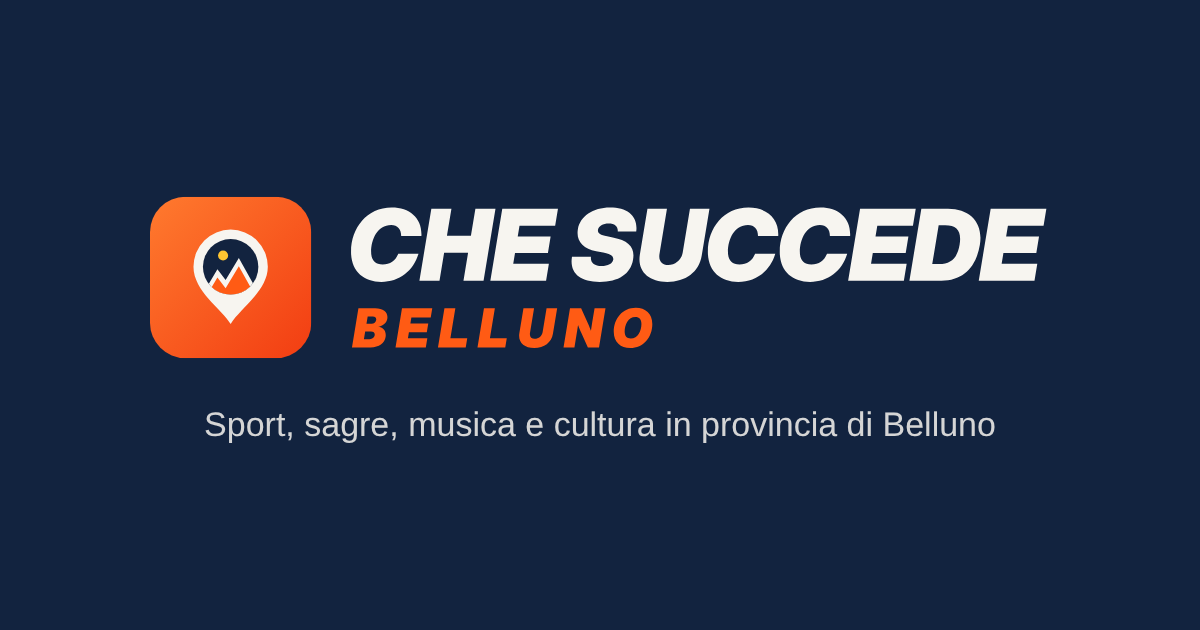
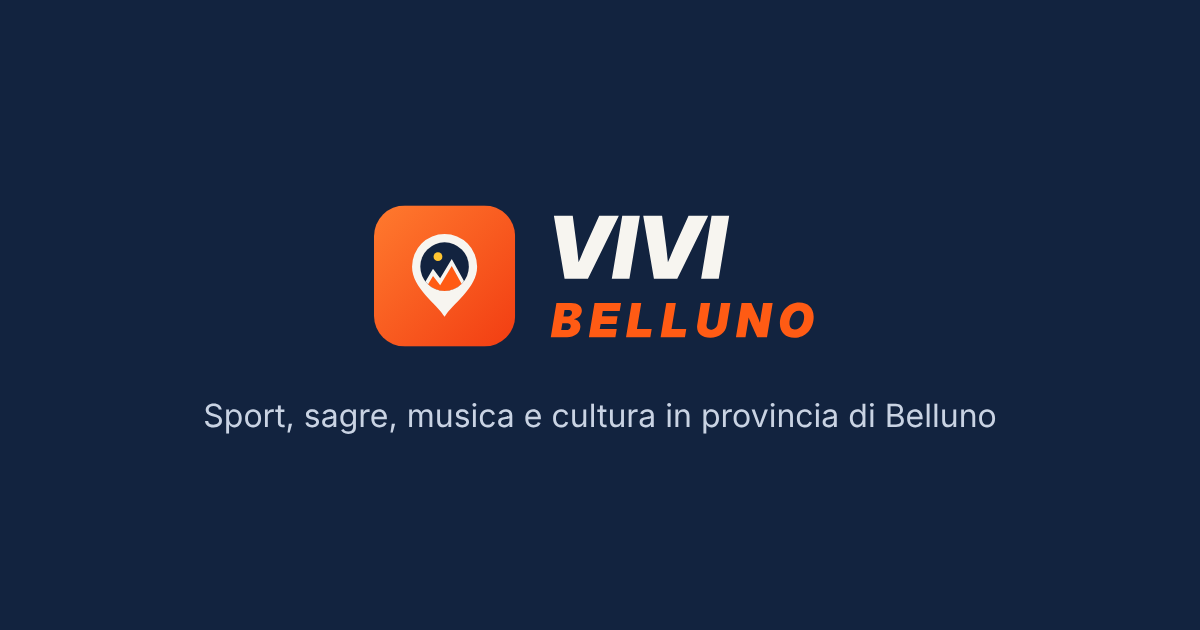
Nuovo nome: Vivi Belluno (pagine, informativa, termini, anteprima)

Changed region(s): [[0.1233, 0.3016, 0.8942, 0.573], [0.1542, 0.6333, 0.8325, 0.6937]]

diff --git a/e/index.html b/e/index.html
@@ -1,6 +1,6 @@
 <!doctype html><html lang="it"><head><meta charset="utf-8"><meta name="viewport" content="width=device-width,initial-scale=1">
-<title>Evento · Che Succede Belluno</title>
-<meta property="og:title" content="Un evento su Che Succede Belluno">
+<title>Evento · Vivi Belluno</title>
+<meta property="og:title" content="Un evento su Vivi Belluno">
 <meta property="og:description" content="Sport, sagre, musica e cultura in provincia di Belluno.">
 <link rel="icon" href="/favicon.png"><meta name="theme-color" content="#12233F"><meta property="og:image" content="https://bortovalabs.github.io/og.png"><link rel="stylesheet" href="/style.css">
 <style>
@@ -13,7 +13,7 @@
 .badge{display:inline-block;background:#fbe3e3;color:#8a1c1c;border-radius:20px;padding:2px 10px;font-weight:700;font-size:13px;margin-bottom:8px}
 </style></head><body><div class="wrap">
 <div class="top">
-  <a class="logo" href="/"><header><img src="/icon.svg" alt=""><b>CHE SUCCEDE <span>BELLUNO</span></b></header></a>
+  <a class="logo" href="/"><header><img src="/icon.svg" alt=""><b>VIVI <span>BELLUNO</span></b></header></a>
   <nav><a href="/">Eventi</a><a href="/gruppi/">Associazioni</a></nav>
 </div>
 <div class="card">
@@ -26,7 +26,7 @@
 <div class="btnrow" id="actions"></div>
 <a class="btn primary" id="open" href="https://play.google.com/store/apps/details?id=it.chesuccedebelluno.app">Apri nell'app</a>
 <a class="btn ghost" href="https://play.google.com/store/apps/details?id=it.chesuccedebelluno.app">Non hai l'app? Scaricala per Android</a>
-<p class="small" style="margin-top:16px">Su Che Succede Belluno trovi gli eventi di sport, sagre, musica e cultura della provincia. <a href="/">Vedi tutti gli eventi</a></p>
+<p class="small" style="margin-top:16px">Su Vivi Belluno trovi gli eventi di sport, sagre, musica e cultura della provincia. <a href="/">Vedi tutti gli eventi</a></p>
 </div></div>
 <script src="/js/csb.js"></script>
 <script>
@@ -49,7 +49,7 @@
   var box = document.getElementById('ev');
   var actions = document.getElementById('actions');
   function show(nodes) { box.innerHTML = ''; nodes.forEach(function (n) { if (n) box.appendChild(n); }); }
-  function notFound(msg) { show([el('h1', '', 'Evento non trovato'), el('p', 'meta', msg)]); document.title = 'Che Succede Belluno'; }
+  function notFound(msg) { show([el('h1', '', 'Evento non trovato'), el('p', 'meta', msg)]); document.title = 'Vivi Belluno'; }
   if (!id || !/^[A-Za-z0-9_-]{1,64}$/.test(id)) { notFound('Il link non è completo. Guarda gli eventi in provincia dalla pagina principale.'); return; }
 
   function button(text, href, cls, download) {
@@ -62,7 +62,7 @@
   function ics(e) {
     function stamp(d) { return d.toISOString().replace(/[-:]/g, '').replace(/\.\d{3}/, ''); }
     function esc(s) { return (s || '').replace(/\\/g, '\\\\').replace(/[,;]/g, '\\$&').replace(/\r?\n/g, '\\n'); }
-    var lines = ['BEGIN:VCALENDAR', 'VERSION:2.0', 'PRODID:-//Che Succede Belluno//IT', 'BEGIN:VEVENT',
+    var lines = ['BEGIN:VCALENDAR', 'VERSION:2.0', 'PRODID:-//Vivi Belluno//IT', 'BEGIN:VEVENT',
       'UID:' + id + '@chesuccedebelluno', 'DTSTAMP:' + stamp(new Date()),
       'DTSTART:' + stamp(e.start), 'DTEND:' + stamp(CSB.endTime(e)),
       'SUMMARY:' + esc(e.title), 'LOCATION:' + esc([e.place, e.town].filter(Boolean).join(', ')),
@@ -75,7 +75,7 @@
     if (!e) { notFound('Forse è stato eliminato dall\'organizzatore. Guarda gli altri eventi dalla pagina principale.'); return; }
     if (e.hidden) { notFound('Questo evento non è pubblico.'); return; }
     var title = e.title || 'Evento';
-    document.title = title + ' · Che Succede Belluno';
+    document.title = title + ' · Vivi Belluno';
     var start = e.start instanceof Date ? e.start : null;
     var pic;
     var thumb = e.thumb || e.image;

diff --git a/termini.html b/termini.html
@@ -1,13 +1,13 @@
 <!doctype html><html lang="it"><head><meta charset="utf-8"><meta name="viewport" content="width=device-width,initial-scale=1">
-<title>Termini d'uso · Che Succede Belluno</title>
+<title>Termini d'uso · Vivi Belluno</title>
 <link rel="icon" href="/favicon.png"><meta name="theme-color" content="#12233F"><meta property="og:image" content="https://bortovalabs.github.io/og.png"><link rel="stylesheet" href="/style.css"></head><body><div class="wrap">
-<header><img src="/icon.svg" alt=""><b>CHE SUCCEDE <span>BELLUNO</span></b></header>
+<header><img src="/icon.svg" alt=""><b>VIVI <span>BELLUNO</span></b></header>
 <div class="card">
 <h1>Termini d'uso</h1>
 <p class="small">Versione del 10 novembre 2026</p>
 
 <h2>1. Il servizio</h2>
-<p>Che Succede Belluno è un'app gratuita, senza pubblicità, che raccoglie gli eventi pubblicati da gruppi e associazioni della provincia di Belluno: sport, sagre e feste, musica e serate, cultura. La gestisce <b>Nicola Bortoluzzi</b> ("Bortova Labs").</p>
+<p>Vivi Belluno è un'app gratuita, senza pubblicità, che raccoglie gli eventi pubblicati da gruppi e associazioni della provincia di Belluno: sport, sagre e feste, musica e serate, cultura. La gestisce <b>Nicola Bortoluzzi</b> ("Bortova Labs").</p>
 <p><b>Punto di contatto</b> per utenti e autorità (anche ai sensi del Digital Services Act): <a href="mailto:bortovalabs@gmail.com">bortovalabs@gmail.com</a>, in italiano o in inglese.</p>
 <p>Usando l'app accetti questi termini. Come trattiamo i dati personali è spiegato nell'<a href="/privacy.html">informativa privacy</a>.</p>
 
@@ -56,7 +56,7 @@
 <p>Quando rimuoviamo o limitiamo un contenuto, <b>spieghiamo il motivo</b> via email a chi l'ha pubblicato: quale regola o norma è stata violata e cosa abbiamo fatto. Se non sei d'accordo puoi rispondere a quella email: ricontrolliamo la decisione. Resta sempre possibile rivolgersi alle autorità o al giudice.</p>
 
 <h2>8. Responsabilità</h2>
-<p>Che Succede Belluno non organizza gli eventi: mostra le informazioni pubblicate da gruppi e associazioni. Facciamo il possibile perché siano corrette, ma prima di partire controlla i dettagli con l'organizzatore, soprattutto per escursioni in montagna, condizioni meteo e iscrizioni. Il servizio è offerto gratuitamente e senza garanzie di disponibilità continua.</p>
+<p>Vivi Belluno non organizza gli eventi: mostra le informazioni pubblicate da gruppi e associazioni. Facciamo il possibile perché siano corrette, ma prima di partire controlla i dettagli con l'organizzatore, soprattutto per escursioni in montagna, condizioni meteo e iscrizioni. Il servizio è offerto gratuitamente e senza garanzie di disponibilità continua.</p>
 
 <h2>9. I tuoi contenuti</h2>
 <p>I contenuti che pubblichi restano tuoi o del tuo gruppo. Pubblicandoli ci concedi il permesso gratuito di mostrarli nell'app, sul sito e nelle anteprime dei link condivisi, finché restano pubblicati.</p>

diff --git a/g/index.html b/g/index.html
@@ -1,11 +1,11 @@
 <!doctype html><html lang="it"><head><meta charset="utf-8"><meta name="viewport" content="width=device-width,initial-scale=1">
-<title>Gruppo · Che Succede Belluno</title>
-<meta property="og:title" content="Un gruppo su Che Succede Belluno">
+<title>Gruppo · Vivi Belluno</title>
+<meta property="og:title" content="Un gruppo su Vivi Belluno">
 <meta property="og:description" content="Gli eventi di associazioni e gruppi della provincia di Belluno.">
 <link rel="icon" href="/favicon.png"><meta name="theme-color" content="#12233F"><meta property="og:image" content="https://bortovalabs.github.io/og.png"><link rel="stylesheet" href="/style.css">
 <style>.gdesc{white-space:pre-line;margin:14px 0 0}</style></head><body><div class="wrap mid">
 <div class="top">
-  <a class="logo" href="/"><header><img src="/icon.svg" alt=""><b>CHE SUCCEDE <span>BELLUNO</span></b></header></a>
+  <a class="logo" href="/"><header><img src="/icon.svg" alt=""><b>VIVI <span>BELLUNO</span></b></header></a>
   <nav><a href="/">Eventi</a><a href="/gruppi/">Associazioni</a><a class="app" href="https://play.google.com/store/apps/details?id=it.chesuccedebelluno.app">App Android</a></nav>
 </div>
 <div class="card" id="g"><p class="loading">Carico il gruppo…</p></div>
@@ -29,7 +29,7 @@
 
   CSB.getDoc('groups/' + encodeURIComponent(id)).then(function (g) {
     if (!g || g.hidden || !g.name) { notFound('Forse non è più pubblico.'); return; }
-    document.title = g.name + ' · Che Succede Belluno';
+    document.title = g.name + ' · Vivi Belluno';
     box.innerHTML = '';
     var head = el('div', 'ghead');
     head.appendChild(CSB.avatar(g, 76));

diff --git a/gruppi/index.html b/gruppi/index.html
@@ -1,11 +1,11 @@
 <!doctype html><html lang="it"><head><meta charset="utf-8"><meta name="viewport" content="width=device-width,initial-scale=1">
-<title>Associazioni e gruppi · Che Succede Belluno</title>
-<meta name="description" content="Associazioni, Pro Loco, società sportive e gruppi della provincia di Belluno che pubblicano i loro eventi su Che Succede Belluno.">
-<meta property="og:title" content="Associazioni e gruppi · Che Succede Belluno">
+<title>Associazioni e gruppi · Vivi Belluno</title>
+<meta name="description" content="Associazioni, Pro Loco, società sportive e gruppi della provincia di Belluno che pubblicano i loro eventi su Vivi Belluno.">
+<meta property="og:title" content="Associazioni e gruppi · Vivi Belluno">
 <meta property="og:description" content="Associazioni, Pro Loco e gruppi della provincia di Belluno.">
 <link rel="icon" href="/favicon.png"><meta name="theme-color" content="#12233F"><meta property="og:image" content="https://bortovalabs.github.io/og.png"><link rel="stylesheet" href="/style.css"></head><body><div class="wrap wide">
 <div class="top">
-  <a class="logo" href="/"><header><img src="/icon.svg" alt=""><b>CHE SUCCEDE <span>BELLUNO</span></b></header></a>
+  <a class="logo" href="/"><header><img src="/icon.svg" alt=""><b>VIVI <span>BELLUNO</span></b></header></a>
   <nav><a href="/">Eventi</a><a class="on" href="/gruppi/">Associazioni</a><a class="app" href="https://play.google.com/store/apps/details?id=it.chesuccedebelluno.app">App Android</a></nav>
 </div>
 

diff --git a/index.html b/index.html
@@ -1,11 +1,11 @@
 <!doctype html><html lang="it"><head><meta charset="utf-8"><meta name="viewport" content="width=device-width,initial-scale=1">
-<title>Che Succede Belluno · eventi in provincia di Belluno</title>
+<title>Vivi Belluno · eventi in provincia di Belluno</title>
 <meta name="description" content="Sport, sagre, musica e cultura in provincia di Belluno: tutti gli eventi di associazioni, Pro Loco e gruppi del territorio, in un posto solo.">
-<meta property="og:title" content="Che Succede Belluno">
+<meta property="og:title" content="Vivi Belluno">
 <meta property="og:description" content="Sport, sagre, musica e cultura in provincia di Belluno, in un posto solo.">
 <link rel="icon" href="/favicon.png"><meta name="theme-color" content="#12233F"><meta property="og:image" content="https://bortovalabs.github.io/og.png"><link rel="stylesheet" href="/style.css"></head><body><div class="wrap mid">
 <div class="top">
-  <a class="logo" href="/"><header><img src="/icon.svg" alt=""><b>CHE SUCCEDE <span>BELLUNO</span></b></header></a>
+  <a class="logo" href="/"><header><img src="/icon.svg" alt=""><b>VIVI <span>BELLUNO</span></b></header></a>
   <nav><a class="on" href="/">Eventi</a><a href="/gruppi/">Associazioni</a><a class="app" href="https://play.google.com/store/apps/details?id=it.chesuccedebelluno.app">App Android</a></nav>
 </div>
 

diff --git a/elimina-account.html b/elimina-account.html
@@ -1,12 +1,12 @@
 <!doctype html><html lang="it"><head><meta charset="utf-8"><meta name="viewport" content="width=device-width,initial-scale=1">
-<title>Cancellazione account · Che Succede Belluno</title>
+<title>Cancellazione account · Vivi Belluno</title>
 <link rel="icon" href="/favicon.png"><meta name="theme-color" content="#12233F"><meta property="og:image" content="https://bortovalabs.github.io/og.png"><link rel="stylesheet" href="/style.css"></head><body><div class="wrap">
-<header><img src="/icon.svg" alt=""><b>CHE SUCCEDE <span>BELLUNO</span></b></header>
+<header><img src="/icon.svg" alt=""><b>VIVI <span>BELLUNO</span></b></header>
 <div class="card">
 <h1>Cancellare l'account e i dati</h1>
 <h2>Dall'app</h2>
 <ol>
-<li>Apri <b>Che Succede Belluno</b> e vai su <b>Profilo</b>.</li>
+<li>Apri <b>Vivi Belluno</b> e vai su <b>Profilo</b>.</li>
 <li>Scorri fino a <b>Privacy e account</b> e tocca <b>Cancella account</b>.</li>
 <li>Conferma: profilo, eventi salvati, partecipazioni, gruppi seguiti e proposte di gruppi vengono eliminati subito.</li>
 </ol>

diff --git a/404.html b/404.html
@@ -1,5 +1,5 @@
 <!doctype html><html lang="it"><head><meta charset="utf-8"><meta name="viewport" content="width=device-width,initial-scale=1">
-<title>Pagina non trovata · Che Succede Belluno</title>
+<title>Pagina non trovata · Vivi Belluno</title>
 <link rel="icon" href="/favicon.png"><meta name="theme-color" content="#12233F"><link rel="stylesheet" href="/style.css">
 <script>
 // Link di un evento la cui pagina non c'è (evento passato da tempo o appena pubblicato):
@@ -11,7 +11,7 @@
   if (g) location.replace('/g/?id=' + g[1]);
 })();
 </script></head><body><div class="wrap">
-<header><img src="/icon.svg" alt=""><b>CHE SUCCEDE <span>BELLUNO</span></b></header>
+<header><img src="/icon.svg" alt=""><b>VIVI <span>BELLUNO</span></b></header>
 <div class="card">
 <h1>Pagina non trovata</h1>
 <p class="meta">Il link potrebbe essere incompleto.</p>

diff --git a/privacy.html b/privacy.html
@@ -1,7 +1,7 @@
 <!doctype html><html lang="it"><head><meta charset="utf-8"><meta name="viewport" content="width=device-width,initial-scale=1">
-<title>Informativa privacy · Che Succede Belluno</title>
+<title>Informativa privacy · Vivi Belluno</title>
 <link rel="icon" href="/favicon.png"><meta name="theme-color" content="#12233F"><meta property="og:image" content="https://bortovalabs.github.io/og.png"><link rel="stylesheet" href="/style.css"></head><body><div class="wrap">
-<header><img src="/icon.svg" alt=""><b>CHE SUCCEDE <span>BELLUNO</span></b></header>
+<header><img src="/icon.svg" alt=""><b>VIVI <span>BELLUNO</span></b></header>
 <div class="card">
 <h1>Informativa sulla privacy</h1>
 <p class="small">Versione del 10 novembre 2026 · ai sensi degli artt. 13 e 14 del Regolamento (UE) 2016/679 (GDPR)</p>

diff --git a/js/csb.js b/js/csb.js
@@ -1,4 +1,4 @@
-// Che Succede Belluno – funzioni comuni del sito (solo lettura dei dati pubblici).
+// Vivi Belluno – funzioni comuni del sito (solo lettura dei dati pubblici).
 // Eventi e gruppi si leggono dal database con l'API REST pubblica di Firestore, senza account:
 // sono gli stessi dati che chiunque vede nell'app senza entrare. Nessun cookie, nessun dato personale.
 (function () {

diff --git a/tools/pagine_eventi.py b/tools/pagine_eventi.py
@@ -92,8 +92,8 @@ def pagina(modello, eid, f):
         f'<p class="meta">📍 {esc(luogo)}</p>' if luogo else '',
     ])
     p = modello
-    p = p.replace('<title>Evento · Che Succede Belluno</title>', f'<title>{esc(titolo)} · Che Succede Belluno</title>')
-    p = p.replace('content="Un evento su Che Succede Belluno"', f'content="{esc(titolo)}"')
+    p = p.replace('<title>Evento · Vivi Belluno</title>', f'<title>{esc(titolo)} · Vivi Belluno</title>')
+    p = p.replace('content="Un evento su Vivi Belluno"', f'content="{esc(titolo)}"')
     p = p.replace('content="Sport, sagre, musica e cultura in provincia di Belluno."', f'content="{esc(descrizione)}"')
     p = p.replace('content="https://bortovalabs.github.io/og.png"', f'content="{foto}"')
     p = re.sub(r'<!--EVENTO-->.*<!--/EVENTO-->', lambda _: f'<div id="ev">{corpo}</div>', p, flags=re.S)
